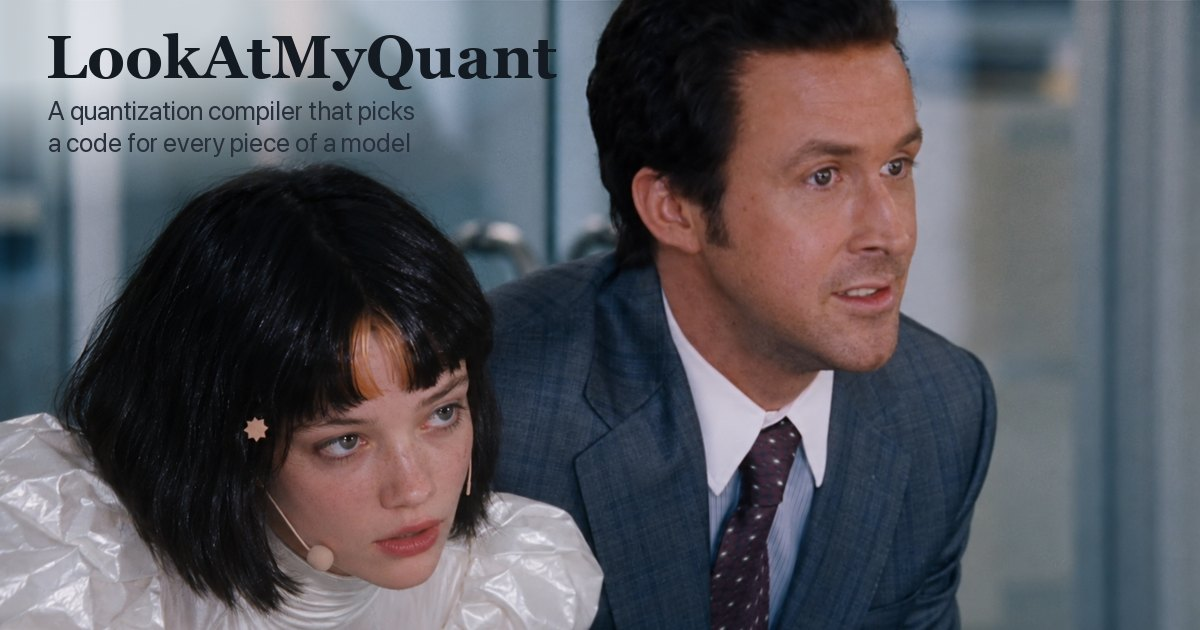
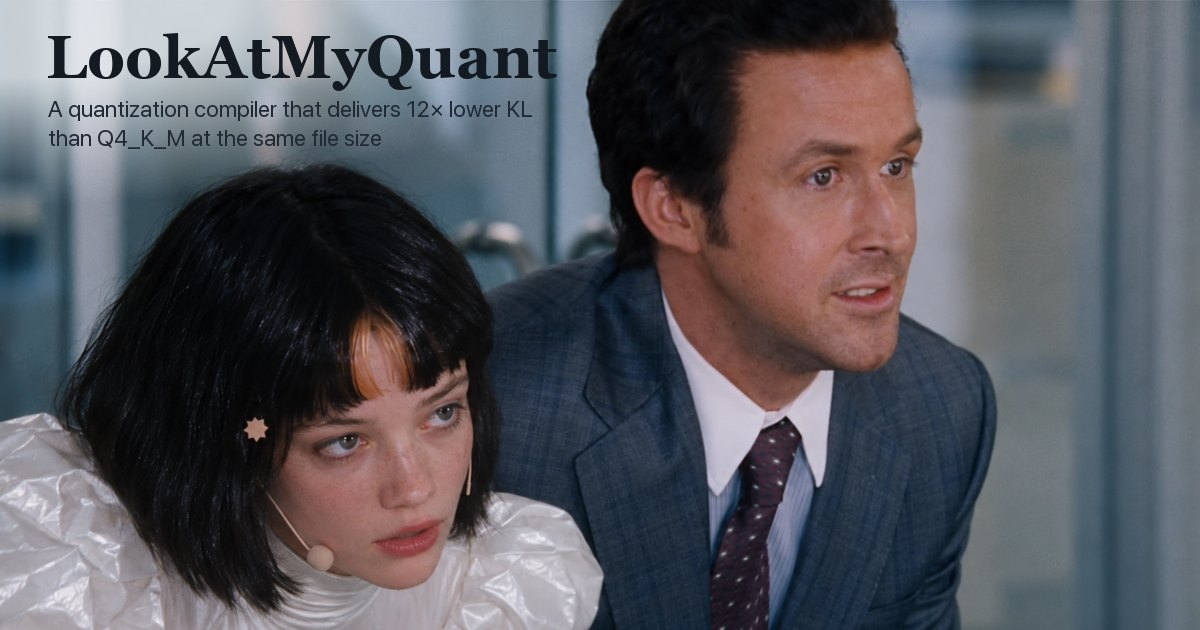
New tagline: 12x lower KL than Q4_K_M at the same file size

Changed region(s): [[0.0308, 0.1508, 0.4317, 0.2413]]

diff --git a/index.html b/index.html
@@ -4,10 +4,10 @@
 <meta charset="utf-8">
 <meta name="viewport" content="width=device-width, initial-scale=1, viewport-fit=cover">
 <title>LookAtMyQuant</title>
-<meta name="description" content="LookAtMyQuant is a quantization compiler. It gives every stored piece of a model its own code, chosen by measuring what each piece costs the whole model.">
+<meta name="description" content="A quantization compiler that delivers 12× lower KL than Q4_K_M at the same file size, measured on Gemma 4 E2B.">
 <meta property="og:type" content="website">
 <meta property="og:title" content="LookAtMyQuant">
-<meta property="og:description" content="A quantization compiler that picks a code for every piece of a model. On Gemma 4 E2B, its GGUF has 12 times lower KL than llama.cpp Q4_K_M at the same size.">
+<meta property="og:description" content="A quantization compiler that delivers 12× lower KL than Q4_K_M at the same file size, measured on Gemma 4 E2B. The compiled GGUF uses only llama.cpp's own quantization types.">
 <meta property="og:url" content="https://lookatmyquant.pages.dev/">
 <meta property="og:image" content="https://lookatmyquant.pages.dev/og.jpg">
 <meta property="og:image:width" content="1200">
@@ -67,7 +67,7 @@ section.wide { margin-top: 22px; margin-bottom: 26px; }
 .hero img { display: block; width: 100%; height: auto; max-height: 34rem; object-fit: cover; object-position: center 30%; border-radius: 6px; }
 header.title { text-align: center; display: grid; gap: 14px; justify-items: center; margin-bottom: 40px; }
 h1 { font: 600 clamp(2.4rem, 6vw, 3.6rem)/1.05 var(--serif); letter-spacing: -0.015em; margin: 0; }
-.subtitle { font: 400 clamp(1.15rem, 2.6vw, 1.5rem)/1.3 var(--serif); color: var(--muted); margin: 0; max-width: 34ch; text-wrap: balance; }
+.subtitle { font: 400 clamp(1.15rem, 2.6vw, 1.5rem)/1.3 var(--serif); color: var(--muted); margin: 0; max-width: 40ch; text-wrap: balance; }
 .authors { font: 500 1.05rem/1.4 var(--sans); margin: 6px 0 0; }
 .meta { font: 400 0.92rem/1.4 var(--sans); color: var(--muted); margin: 0; }
 .links { display: flex; flex-wrap: wrap; gap: 8px; justify-content: center; margin-top: 4px; }
@@ -173,7 +173,7 @@ footer { margin-top: 64px; padding-top: 18px; border-top: 1px solid var(--line);
   </figure>
   <header class="title col">
     <h1>LookAtMyQuant</h1>
-    <p class="subtitle">A quantization compiler that picks a code for every piece of a model</p>
+    <p class="subtitle">A quantization compiler that delivers 12× lower KL than Q4_K_M at the same file size</p>
     <p class="authors">Shin Megami Boson</p>
     <p class="meta">October 2026</p>
     <nav class="links" aria-label="Sections">

diff --git a/README.md b/README.md
@@ -1,6 +1,6 @@
 # LookAtMyQuant
 
-A quantization compiler that picks a code for every piece of a model.
+A quantization compiler that delivers 12× lower KL than Q4_K_M at the same file size.
 
 This repository holds the paper website. The page loads `data.json`, so open it through a local web server:
 
@@ -10,4 +10,4 @@ python3 -m http.server 8000
 
 Then visit http://localhost:8000.
 
-On Gemma 4 E2B, a GGUF file made by the compiler from llama.cpp's own quantization types has 12 times lower KL divergence from the original model than llama.cpp's Q4_K_M at the same size.
+Measured on Gemma 4 E2B. The compiled GGUF uses only llama.cpp's own quantization types, so it runs in llama.cpp as it is.
